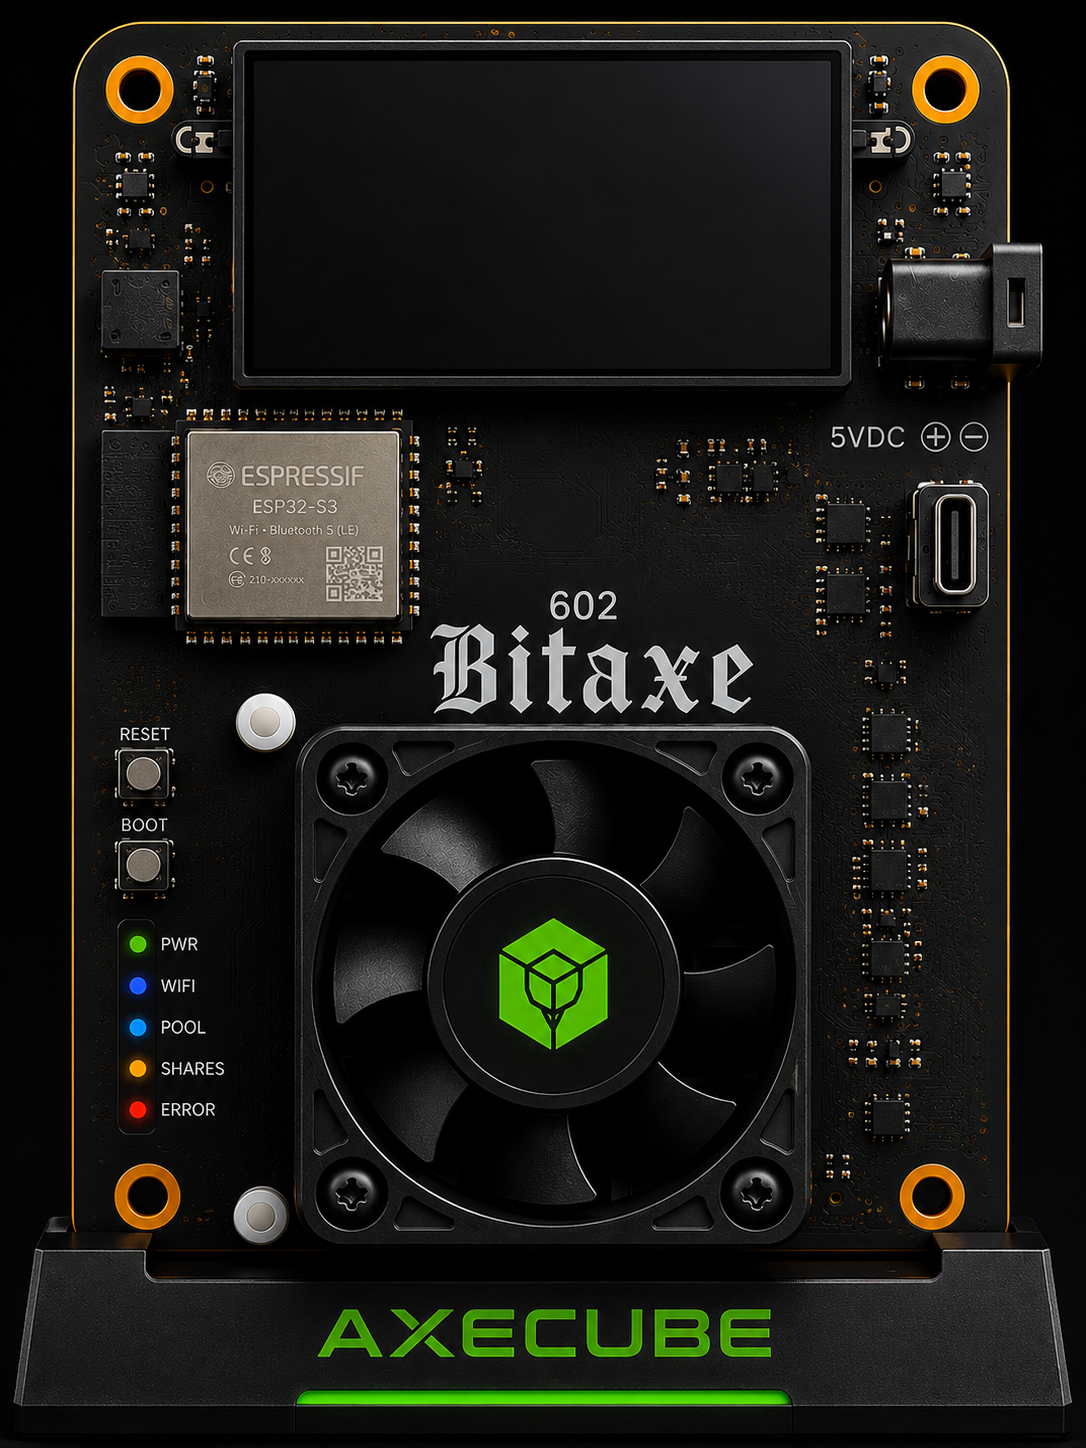
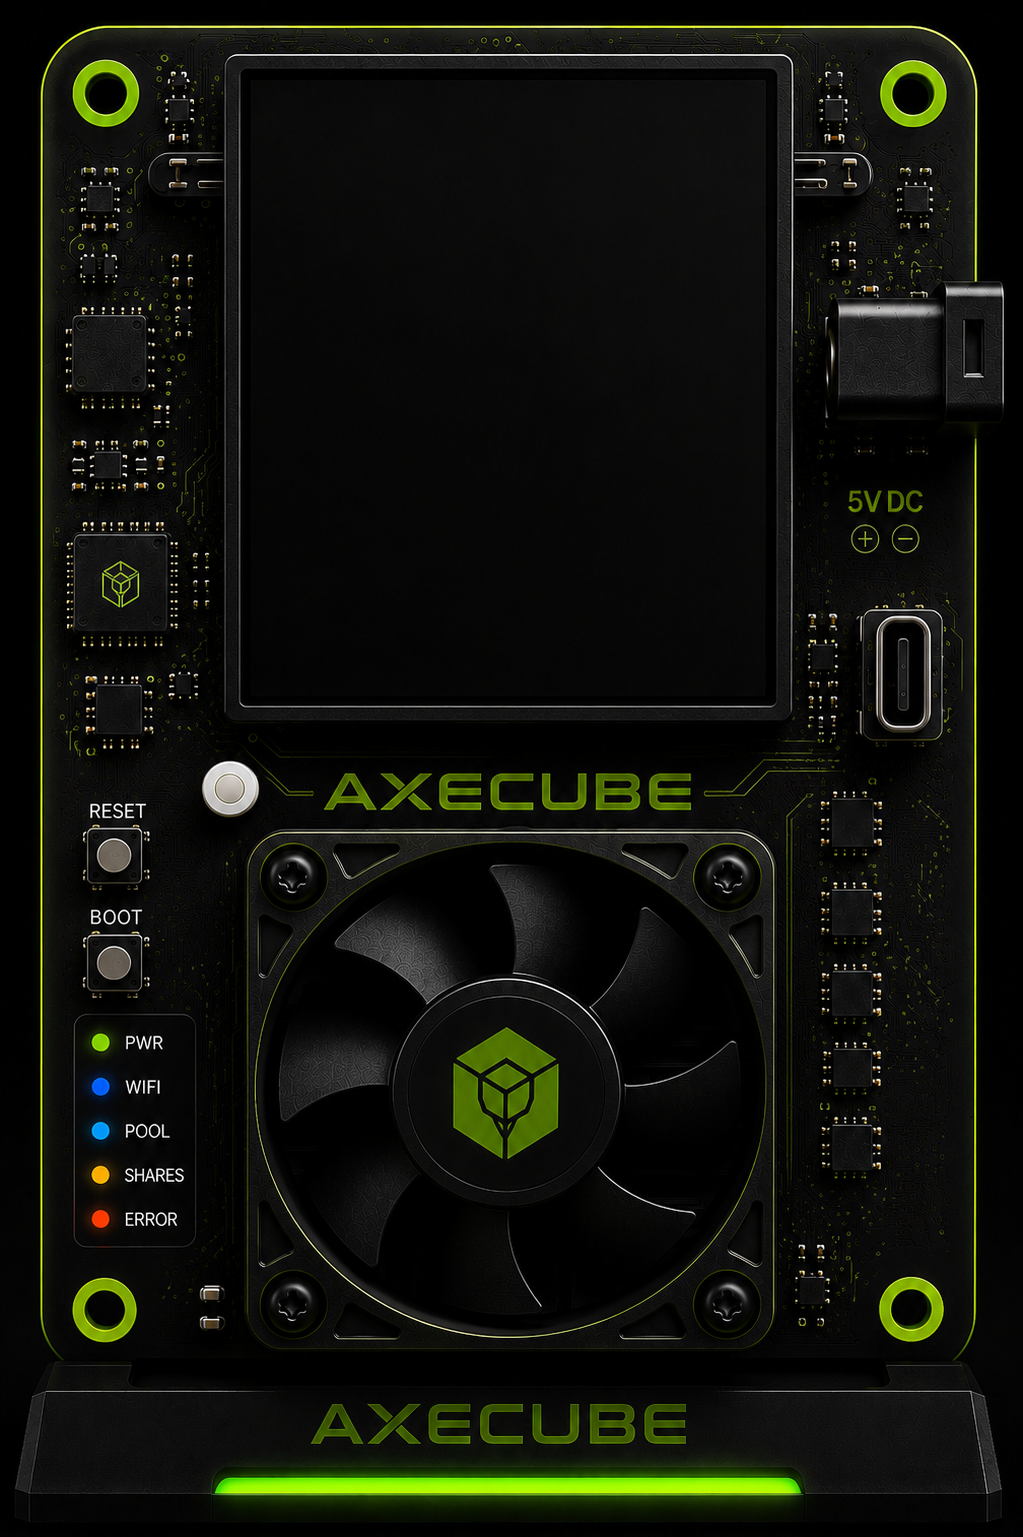
Mise à jour AXECUBE — 2026-08-06 23:26

Changed region(s): [[0.0303, 0.0, 1.0, 0.9945], [0.0, 0.9012, 0.0303, 0.9634], [0.6667, 0.6526, 0.697, 0.6837]]

diff --git a/axecube.js b/axecube.js
@@ -1695,6 +1695,7 @@ function main() {
           machineId: j.machineId, worker: String(j.worker || '').slice(0, 40),
           cpu: String(j.cpu || '').slice(0, 40), hashrate: Number(j.hashrate) || 0,
           bestDiff: Number(j.bestDiff) || 0, pool: String(j.pool || '').slice(0, 40),
+          accepted: Number(j.accepted) || 0, rejected: Number(j.rejected) || 0,
           ip: rinfo.address, vu: Date.now(),
         });
       } catch { /* paquet illisible, ignoré */ }
@@ -1705,6 +1706,7 @@ function main() {
       const paquet = Buffer.from(JSON.stringify({
         type: 'axecube-swarm', machineId, worker: workerName, cpu: cpuModel,
         hashrate: state.hashrate, bestDiff: state.bestDiff, pool: poolLabel,
+        accepted: state.accepted, rejected: state.rejected,
       }));
       swarmSocket.send(paquet, 0, paquet.length, SWARM_PORT, '255.255.255.255', () => {});
     }, SWARM_INTERVAL_MS);
@@ -4106,37 +4108,53 @@ charger();setInterval(charger,5000);
   *{box-sizing:border-box;margin:0;padding:0}
   body{background:var(--bg);color:var(--white);font-family:var(--mono);
        padding:20px;padding-top:max(20px,env(safe-area-inset-top));line-height:1.5}
-  .wrap{max-width:1200px;margin:0 auto}
+  .wrap{max-width:1300px;margin:0 auto}
   header{display:flex;align-items:center;gap:14px;padding-bottom:18px;
-         border-bottom:1px solid var(--line);margin-bottom:22px;flex-wrap:wrap}
+         border-bottom:1px solid var(--line);margin-bottom:28px;flex-wrap:wrap}
   .lien{color:var(--amber);text-decoration:none;font-size:12px;border:1px solid var(--amber-faint);
         padding:7px 13px;border-radius:8px}
   .lien:hover{border-color:var(--amber)}
   h1{font-size:16px;font-weight:600;color:var(--amber);text-shadow:var(--glow)}
   .sub{font-size:11px;color:var(--mut);margin-top:8px;flex-basis:100%}
-  .grille{display:grid;grid-template-columns:repeat(auto-fill,minmax(230px,1fr));gap:22px}
-  .carteMachine{position:relative;width:100%;aspect-ratio:1086/1448;
+  .grille{display:grid;grid-template-columns:repeat(auto-fill,minmax(260px,1fr));gap:26px}
+  .carteMachine{position:relative;width:100%;aspect-ratio:1023/1537;container-type:size;container-name:carte;
     background-image:url('/assets/bitaxe-board.png');background-size:contain;background-repeat:no-repeat;
-    filter:drop-shadow(0 8px 20px rgba(0,0,0,.5))}
+    filter:drop-shadow(0 10px 24px rgba(0,0,0,.55))}
   .carteMachine.hors-ligne{filter:grayscale(1) opacity(.45)}
-  .ecran{position:absolute;left:22.56%;top:4.49%;width:53.68%;height:20.03%;
-    border-radius:2.4%/3.5%;overflow:hidden;background:#05070a;
-    display:flex;flex-direction:column;justify-content:space-between;padding:5% 6%}
-  .ecranHaut{display:flex;justify-content:space-between;align-items:center;font-size:min(1.9vw,13px)}
-  .ecranLogo{display:flex;align-items:center;gap:5px;font-weight:700;color:var(--white)}
+  .ecran{position:absolute;left:23.85%;top:4.49%;width:51.03%;height:41.31%;
+    container-type:size;container-name:ecran;
+    border-radius:2%/1.6%;overflow:hidden;background:#05070a;
+    display:grid;grid-template-rows:9% 19% 15% 15% 15% 13%;row-gap:2%;padding:5% 6%;box-sizing:border-box}
+  .eLigne{height:100%;min-height:0;display:flex;align-items:center;justify-content:space-between;min-width:0}
+  .ecranLogo{display:flex;align-items:center;gap:5px;font-weight:700;color:var(--white);font-size:min(7cqw,22cqh,20px)}
   .ecranLogo svg{width:1.1em;height:1.1em}
-  .statut{color:var(--amber);display:flex;align-items:center;gap:4px;font-weight:700}
-  .statut .pt{width:6px;height:6px;border-radius:50%;background:var(--amber)}
+  .statut{color:var(--amber);display:flex;align-items:center;gap:4px;font-weight:700;font-size:min(6cqw,20cqh,16px)}
+  .statut .pt{width:6px;height:6px;border-radius:50%;background:var(--amber);flex-shrink:0}
   .statut.off{color:var(--mut)}
   .statut.off .pt{background:var(--mut)}
-  .ecranLabel{font-size:min(1.5vw,10px);color:var(--mut);letter-spacing:.08em}
-  .ecranHash{font-weight:800;color:var(--white);font-size:min(6.5vw,44px);line-height:1;display:flex;align-items:baseline;gap:4px}
-  .ecranHash span{font-size:min(2.6vw,17px);font-weight:700;color:var(--amber)}
-  .ecranFoot{display:flex;justify-content:space-between;font-size:min(1.5vw,10px);gap:4px}
-  .ecranFoot div{overflow:hidden;text-overflow:ellipsis;white-space:nowrap}
-  .ecranFoot b{display:block;color:var(--white);font-size:min(2vw,13px)}
-  .ecranFoot .m b{color:var(--amber)}
-  .nomMachine{position:absolute;left:0;right:0;bottom:-26px;text-align:center;font-size:11px;color:var(--white-dim)}
+  .blocHash{height:100%;min-height:0;min-width:0;display:flex;flex-direction:column;justify-content:center;overflow:hidden}
+  .ecranLabel{font-size:min(4.4cqw,13cqh,14px);color:var(--mut);letter-spacing:.1em;line-height:1.2;flex-shrink:0}
+  .ecranHash{font-weight:800;color:var(--white);font-size:min(15cqw,26cqh,58px);line-height:1;display:flex;align-items:baseline;gap:5px;overflow:hidden;min-width:0;flex-shrink:0}
+  .ecranHash span{font-size:min(6cqw,11cqh,22px);font-weight:700;color:var(--amber);white-space:nowrap;flex-shrink:0}
+  .spark{display:none;width:100%;flex:1 1 0;min-height:0;margin-top:2%}
+  .spark svg{width:100%;height:100%;display:block}
+  @container carte (min-height: 520px){
+    .ecran{grid-template-rows:7% 36% 11% 13% 13% 11% !important}
+    .spark{display:block}
+  }
+  .eGrid{height:100%;min-height:0;min-width:0;display:grid;grid-auto-flow:column;grid-auto-columns:1fr;
+    align-items:center;gap:0 4%}
+  .eGrid>div{overflow:hidden;min-width:0;display:flex;flex-direction:column;justify-content:center;gap:2%}
+  .eGrid span{font-size:min(4cqw,12cqh,13px);color:var(--mut);letter-spacing:.08em;
+    overflow:hidden;text-overflow:ellipsis;white-space:nowrap}
+  .eGrid b{font-size:min(5cqw,15cqh,17px);color:var(--white);font-weight:700;
+    overflow:hidden;text-overflow:ellipsis;white-space:nowrap}
+  .eGrid .accent b{color:var(--amber)}
+  .eGrid .rej{color:var(--mut);font-weight:400;font-size:0.8em}
+  .nomMachine{position:absolute;left:4%;right:4%;bottom:-26px;text-align:center;font-size:11px;color:var(--white-dim);
+    overflow:hidden;text-overflow:ellipsis;white-space:nowrap}
+  .badgeMoi{display:inline-block;background:rgba(150,240,31,.14);color:var(--amber);border:1px solid rgba(150,240,31,.4);
+    font-size:9px;font-weight:700;letter-spacing:.06em;padding:1px 6px;border-radius:8px;margin-right:5px;vertical-align:middle}
   .vide{color:var(--mut);font-size:12px;padding:30px 0}
 </style></head>
 <body><div class="wrap">
@@ -4153,35 +4171,118 @@ function fmtHR(h){if(!h)return'0 H/s';if(h>=1e12)return(h/1e12).toFixed(2)+' TH/
   if(h>=1e6)return(h/1e6).toFixed(2)+' MH/s';if(h>=1e3)return(h/1e3).toFixed(2)+' kH/s';return h.toFixed(0)+' H/s'}
 function fmtD(d){if(!d)return'—';if(d>=1e12)return(d/1e12).toFixed(2)+' T';if(d>=1e9)return(d/1e9).toFixed(2)+' G';
   if(d>=1e6)return(d/1e6).toFixed(2)+' M';if(d>=1e3)return(d/1e3).toFixed(2)+' k';return d>=100?d.toFixed(0):d.toPrecision(3)}
+function fmtN(n){n=n||0;if(n>=1e6)return(n/1e6).toFixed(2)+'M';if(n>=1e3)return(n/1e3).toFixed(1)+'k';return String(Math.round(n))}
+function fmtPrix(p,sym){if(!p)return'—';if(p>=1e3)return Math.round(p/1000)+'k'+(sym||'');return Math.round(p)+(sym||'')}
+function fmtUp(s){if(!s)return'—';s=Math.round(s);const j=Math.floor(s/86400),h=Math.floor(s%86400/3600),m=Math.floor(s%3600/60);
+  return (j?j+'j ':'')+h+'h'+String(m).padStart(2,'0')}
 const LOGO_SVG='<svg viewBox="0 0 24 24" fill="none" stroke="currentColor" stroke-width="1.6"><path d="M12 2l8 4.6v9.8L12 22l-8-4.6V6.6z"/><path d="M12 2v9M12 11L4 6.6M12 11l8-4.4"/></svg>';
 document.getElementById('retour').href='/details'+Q;
-function carte(m){
+
+// Sparkline SVG à partir d'un vrai historique (histHash), pas de données inventées.
+// Retourne une chaîne vide si aucun historique n'est disponible (ex: machines distantes).
+function sparkSVG(hist){
+  if(!hist || hist.length<2) return '';
+  const w=200,h=44;
+  const mn=Math.min(...hist), mx=Math.max(...hist);
+  const range=(mx-mn)||1;
+  const pts=hist.map((v,i)=>{
+    const x=i/(hist.length-1)*w;
+    const y=h-((v-mn)/range)*h*0.85-h*0.05;
+    return x+','+y;
+  });
+  const path='M'+pts.join(' L');
+  const fillPts=pts.concat([w+','+h, '0,'+h]).join(' L');
+  return '<svg viewBox="0 0 '+w+' '+h+'" preserveAspectRatio="none">'
+    +'<polyline points="'+fillPts+'" fill="rgba(150,240,31,.14)" stroke="none"/>'
+    +'<polyline points="'+pts.join(' ')+'" fill="none" stroke="#96f01f" stroke-width="2" '
+    +'stroke-linejoin="round" stroke-linecap="round"/>'
+    +'</svg>';
+}
+
+// Carte complète : utilisée pour MA machine, dont on connaît tous les détails
+// (uptime, threads, difficulté, acceptation, historique réel...).
+function carteComplete(m, estMoi){
+  const enLigne=(m.hashrate||0)>0;
+  const acceptance=(m.accepted!=null && m.rejected!=null && (m.accepted+m.rejected)>0)
+    ? ((m.accepted/(m.accepted+m.rejected))*100).toFixed(1)+'%' : '—';
+  return '<div class="carteMachine'+(enLigne?'':' hors-ligne')+'">'
+    +'<div class="ecran">'
+      +'<div class="eLigne"><div class="ecranLogo">'+LOGO_SVG+'AXECUBE</div>'
+        +'<div class="statut'+(enLigne?'':' off')+'"><span class="pt"></span>'+(enLigne?'MINING':'HORS LIGNE')+'</div></div>'
+      +'<div class="blocHash"><div class="ecranLabel">HASHRATE</div>'
+        +'<div class="ecranHash">'+fmtHR(m.hashrate||0).replace(/ .*/,'')+'<span>'+ (fmtHR(m.hashrate||0).split(' ')[1]||'') +'</span></div>'
+        +'<div class="spark">'+sparkSVG(m.hist)+'</div></div>'
+      +'<div class="eGrid"><div><span>UPTIME</span><b>'+fmtUp(m.uptime)+'</b></div>'
+        +'<div><span>THREADS</span><b>'+(m.threads||'—')+'</b></div></div>'
+      +'<div class="eGrid"><div><span>POOL</span><b title="'+(m.pool||'—')+'">'+(m.pool||'—')+'</b></div>'
+        +'<div><span>DIFFICULTÉ</span><b>'+fmtD(m.poolDiff||0)+'</b></div></div>'
+      +'<div class="eGrid"><div class="accent"><span>MEILLEURE</span><b>'+fmtD(m.bestDiff||0)+'</b></div>'
+        +'<div><span>SHARES</span><b>'+fmtN(m.accepted||0)+' <span class="rej">· '+fmtN(m.rejected||0)+'</span></b></div></div>'
+      +'<div class="eGrid"><div><span>ACCEPTATION</span><b>'+acceptance+'</b></div>'
+        +'<div class="accent"><span>COURS ₿</span><b>'+fmtPrix(m.btcPrice, m.btcSymbol)+'</b></div></div>'
+    +'</div>'
+    +'<div class="nomMachine">'+(estMoi?'<span class="badgeMoi">MOI</span> ':'')+(m.worker||'—')+' · '+(m.cpu||'—')+'</div>'
+  +'</div>';
+}
+
+// Carte allégée : utilisée pour les autres machines du réseau, dont on ne connaît
+// que ce qu'elles diffusent réellement (pas d'uptime, threads ni température --
+// on ne les invente pas).
+function carteLegere(m){
   const enLigne=(m.hashrate||0)>0;
   return '<div class="carteMachine'+(enLigne?'':' hors-ligne')+'">'
     +'<div class="ecran">'
-      +'<div class="ecranHaut"><div class="ecranLogo">'+LOGO_SVG+'AXECUBE</div>'
+      +'<div class="eLigne"><div class="ecranLogo">'+LOGO_SVG+'AXECUBE</div>'
         +'<div class="statut'+(enLigne?'':' off')+'"><span class="pt"></span>'+(enLigne?'MINING':'HORS LIGNE')+'</div></div>'
-      +'<div><div class="ecranLabel">HASHRATE</div>'
+      +'<div class="blocHash"><div class="ecranLabel">HASHRATE</div>'
         +'<div class="ecranHash">'+fmtHR(m.hashrate||0).replace(/ .*/,'')+'<span>'+ (fmtHR(m.hashrate||0).split(' ')[1]||'') +'</span></div></div>'
-      +'<div class="ecranFoot">'
-        +'<div class="m">MEILLEURE<b>'+fmtD(m.bestDiff||0)+'</b></div>'
-        +'<div>POOL<b>'+(m.pool||'—')+'</b></div>'
-        +'<div>IP<b>'+(m.ip||'—')+'</b></div>'
-      +'</div>'
+      +'<div class="eGrid"><div class="accent"><span>MEILLEURE</span><b>'+fmtD(m.bestDiff||0)+'</b></div>'
+        +'<div><span>SHARES</span><b>'+fmtN(m.accepted||0)+' <span class="rej">· '+fmtN(m.rejected||0)+'</span></b></div></div>'
+      +'<div class="eGrid"><div><span>POOL</span><b title="'+(m.pool||'—')+'">'+(m.pool||'—')+'</b></div>'
+        +'<div class="accent"><span>COURS ₿</span><b>'+fmtPrix(m.btcPrice, m.btcSymbol)+'</b></div></div>'
     +'</div>'
-    +'<div class="nomMachine">'+(m.worker||'—')+' · '+(m.cpu||'—')+'</div>'
+    +'<div class="nomMachine">'+(m.worker||'—')+' · '+(m.cpu||'—')+(m.ip?' · '+m.ip:'')+'</div>'
   +'</div>';
 }
+
 async function charger(){
   const grille=document.getElementById('grille');
   try{
-    const r=await(await fetch('/api/swarm'+Q)).json();
-    const liste=r.machines||[];
-    if(!liste.length){
-      grille.innerHTML='<div class="vide">Aucune machine AXECUBE détectée sur ce réseau local pour l\\'instant.</div>';
+    const [repDetails, repSwarm]=await Promise.all([
+      fetch('/api/details'+Q).then(r=>r.ok?r.json():null).catch(()=>null),
+      fetch('/api/swarm'+Q).then(r=>r.ok?r.json():null).catch(()=>null)
+    ]);
+    const btcPrice=repDetails && repDetails.marche && repDetails.marche.btcPrice;
+    const btcSymbol=(repDetails && repDetails.marche && repDetails.marche.btcSymbol)||'$';
+    let html='';
+    // Ma propre machine (celle qui sert ce dashboard) — pas incluse dans /api/swarm
+    // qui ne liste que les *autres* machines détectées sur le réseau.
+    if(repDetails && repDetails.perf){
+      const moi={
+        worker: repDetails.worker,
+        cpu: repDetails.machine && repDetails.machine.cpu,
+        hashrate: repDetails.perf.hashrate,
+        hist: repDetails.histHash,
+        uptime: repDetails.uptime,
+        threads: repDetails.machine && (repDetails.machine.coeursActifs+'/'+repDetails.machine.coeursMax),
+        pool: repDetails.pool && repDetails.pool.nom,
+        poolDiff: repDetails.stratum && repDetails.stratum.poolDiff,
+        bestDiff: repDetails.loterie && repDetails.loterie.bestDiff,
+        accepted: repDetails.loterie && repDetails.loterie.accepted,
+        rejected: repDetails.loterie && repDetails.loterie.rejected,
+        btcPrice, btcSymbol
+      };
+      html+=carteComplete(moi, true);
+    }
+    const liste=(repSwarm && repSwarm.machines)||[];
+    // Le cours BTC n'est pas diffusé par chaque machine (c'est une donnée de marché
+    // globale, identique partout) -- on réutilise celui de cette machine pour toutes.
+    html+=liste.map(m=>carteLegere(Object.assign({},m,{btcPrice,btcSymbol}))).join('');
+    if(!html){
+      grille.innerHTML='<div class="vide">Aucune machine AXECUBE détectée pour l\\'instant.</div>';
       return;
     }
-    grille.innerHTML=liste.map(carte).join('');
+    grille.innerHTML=html;
   }catch(e){
     grille.innerHTML='<div class="vide">Recherche réseau indisponible.</div>';
   }
